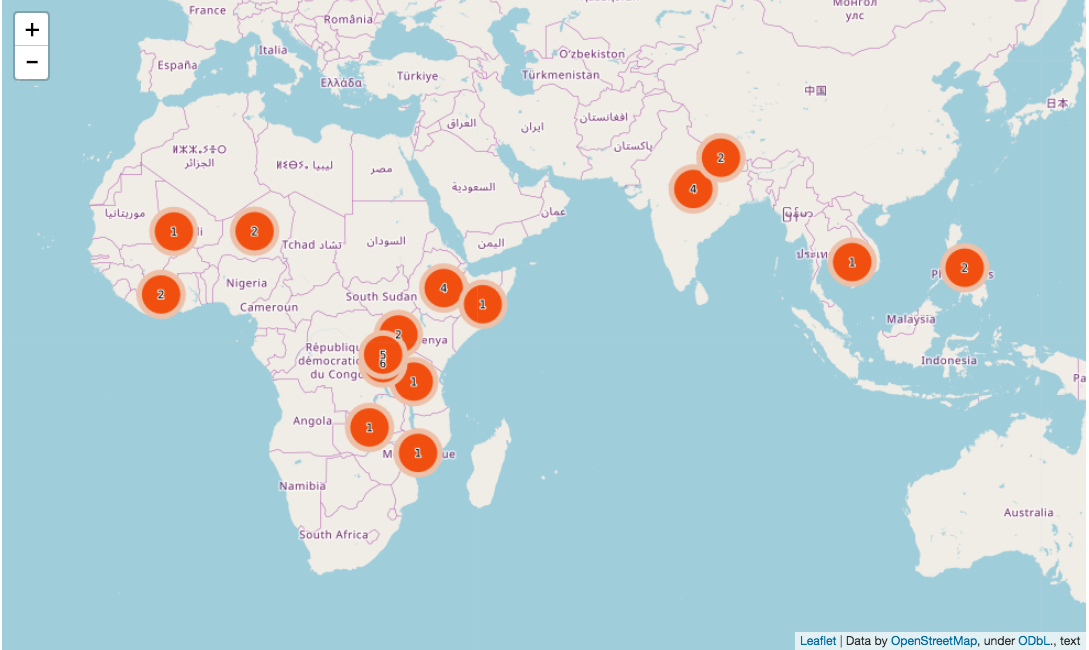
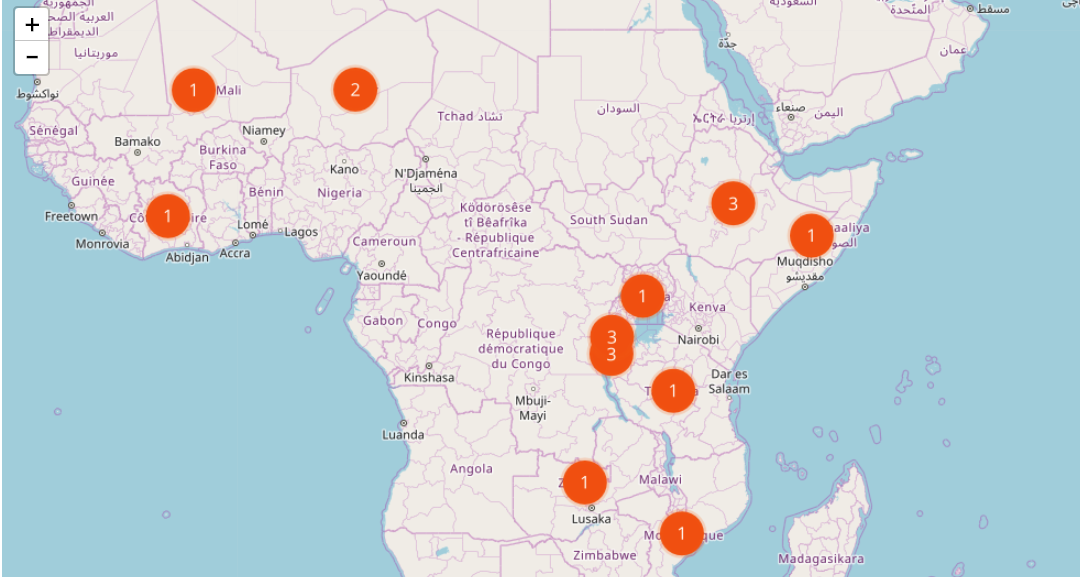
updated the software to automatically upload the carto table via carto api, and changed structure slightly to bools

diff --git a/carto_layer.py b/carto_layer.py
@@ -3,6 +3,11 @@ from iso3166 import countries
 from collections import Counter
 import iso3166
 import pandas as pd
+import requests
+import os
+
+
+output_file = 'output_stories.csv'
 
 
 def extract_entry(entry):
@@ -50,10 +55,26 @@ def sector_row_entries(sector_entry, all_sectors):
             if tag == sector:
                 #print(f'     found {tag} entry')
                 found = 1
-                tmp.append(1)
+                tmp.append(True)
         if found == 0:
-            tmp.append(0)
+            tmp.append(False)
     return tmp, col_names
+
+
+def upload_to_carto(APIKEY):
+    """Use the Carto API to upload a local csv file to the careusa account"""
+    url = "https://careusa.carto.com/api/v1/imports"
+    params = {'api_key': APIKEY,
+              'privacy':'public',
+              'collision_strategy':'overwrite'}
+    files = {'file': open(output_file,'rb')}
+    r = requests.post(url=url,files=files, params=params)
+
+    if r.status_code == 200:
+        print(f"Carto respose {r.status_code}: Table upload successful")
+        #print(r.url)
+    else:
+        print(f"Table upload failed - Carto response {r.status_code}")
 
 
 def main():
@@ -72,9 +93,12 @@ def main():
             ACCESS_TOKEN = item.split()[-1]
         if item.split()[0] == 'SPACE_ID':
             SPACE_ID = item.split()[-1]
+        if item.split()[0] == 'CARTO_API_KEY':
+            CARTO_API_KEY = item.split()[-1]
 
     assert ACCESS_TOKEN, 'failed to find ACCESS_TOKEN'
     assert SPACE_ID, 'failed to find SPACE_ID'
+    assert CARTO_API_KEY, 'failed to find CARTO_API_KEY'
 
     # Create your Contentful Delivery API Client
     client = contentful.Client(SPACE_ID, ACCESS_TOKEN)
@@ -117,9 +141,14 @@ def main():
     sector_names.append('year')
 
     export_df = pd.DataFrame(tmp_row, columns=sector_names)
-    export_df.to_csv('output_stories.csv')
-    print('Normal end of program reached.')
+    export_df.to_csv(output_file, index=False)
+    print('Created temporary file')
 
+    upload_to_carto(APIKEY=CARTO_API_KEY)
+
+    if os.path.exists(output_file):
+        print('Cleanup stage - removing temporary file.')
+        os.remove(output_file)
 
 if __name__ == '__main__':
     main()

diff --git a/README.md b/README.md
@@ -1,6 +1,6 @@
 # CARE data layer
 
-This software should run periodically in oder to generate a csv file for the production of a story layer.
+This software should run periodically in oder to generate a csv file for the production of a story layer, and automatically upload it to the careusa carto account.
 
 
 ## Requirements
@@ -23,9 +23,11 @@ You will also need a `.env` file with API credentials for Contentful in the same
 ```
 SPACE_ID=XXXXXX
 ACESS_TOKEN=XXXXXX
-
+CARTO_API_KEY =XXXXXXX
 ```
-These keys can be obtained from [Contentful](https://app.contentful.com/spaces/nlip0spjj3b7/api/keys/0x476IPThWIVAOF2zg7PoW).
+The SPACE_ID and ACESS_TOKEN keys can be obtained from [Contentful](https://app.contentful.com/spaces/nlip0spjj3b7/api/keys/0x476IPThWIVAOF2zg7PoW).
+The CARTO_API_KEY can be obtained from within the Carto account.
+These keys can also be obtained by contacting the Vizzuality development team.
 
 ## Running
 
@@ -35,39 +37,18 @@ If your Python is set up, and you have installed the requirements file, you can 
 python carto_layer.py
 ```
 
+A sucessful run will result in the following output, and the table being updated:
+```
+╰─$ python carto_layer.py
+Found  44 stories.
 
-## Syncing the output file to Dropbox
+Created temporary file
+Carto respose 200: Table upload successful
+Cleanup stage - removing temporary file.
+```
 
-After running, the script should produce an output file: `output_stores.csv` in your local directory. We will need to place this in a location in sync with the Care Carto account (`https://careusa.carto.com`).
 
-We have set up a dropbox account:
-
-  - username: `benjamin.laken@vizzuality.com`
-  - password: XXXX (shared on LastPass)
-
-The procedure is to run the python software, and take the `output_stories.csv` file and upload that to the dropbox account, overwriting/replacing the existing file.
-
-Once the file is overwritten, the shared link should be enough to access the file.
-
-![](pics/first_share.png)
-![](pics/link_copy.png)
-
-This link should stay as:
-'https://www.dropbox.com/s/5sei7sk8asob4qj/output_stories.csv?dl=0'
-
-note, to access the file directly from this link, you will need to view the following URL:
-
-`https://dl.dropboxusercontent.com/1/view/5sei7sk8asob4qj/output_stories.csv`
-
-It is the latter URL that should be connected to Carto. This should already be done.
-The file should be set to sync once every day (or whatever your preferred update rate is).
-The table should be `output_stories` in the `careusa` Carto account.
-
-![](pics/carto_connect.png)
-
-![](pics/carto_and_dropbox_link.png)
-
-### Generating a Carto Map layer
+### Generating a Carto Map layer from this table
 
 You can generate a Carto map layer from these data as follows:
 
@@ -79,10 +60,10 @@ import requests
 import json
 
 
-possible_variables_to_select = ['climate_change',
+possible_tags_to_select = ['climate_change',
                                  'economic_development',
                                  'education',
-                                 'emergency_&_disaster_aid',
+                                 'emergency__disaster_aid',
                                  'food_security',
                                  'grand_prize',
                                  'health',
@@ -90,40 +71,43 @@ possible_variables_to_select = ['climate_change',
                                  'total']
 
 
+
+year = 2016
 var_to_view = 'total'  # <-- E.g. of selecting a variable for the layer
+tag = 'education'
 
 query=(f"WITH data AS "
-       f"(SELECT * FROM output_stories) "
+       f"(SELECT iso, COUNT(year) as value FROM output_stories "
+       f"WHERE year = {year} "
+      # f"AND {tag} = true "
+       f"GROUP BY iso) "
        f"SELECT map.iso, map.cartodb_id, ST_CENTROID(map.the_geom_webmercator) AS the_geom_webmercator, "
-       f"data.{var_to_view} as value, data.name "
+       f"data.value as value "
        f"from world_complete_1 AS map "
        f"INNER JOIN data "
        f"ON data.iso = map.iso")
 print(query)
 
 style = ("#test_stories{"
-          "marker-fill-opacity: 1.0;"
-          "marker-line-color: #EFC8B2;"
-          "marker-line-width: 5;"
-          "marker-line-opacity: 1.0;"
-          "marker-placement: point;"
-          "marker-type: ellipse;"
-          "marker-width: 40;"
-          "marker-fill: #F25A0D;"
-          "marker-allow-overlap: true; }"
-
-        "#test_stories::labels {"
-         " text-name: [value];"
-        "  text-face-name: 'DejaVu Sans Book';"
-        "  text-size: 10;"
-        "  text-label-position-tolerance: 10;"
-        "  text-fill: #000;"
-        "  text-halo-fill: #FFF;"
-        "  text-halo-radius: 1;"
-        "  text-dy: 0;"
-        "  text-allow-overlap: true;"
-        "  text-placement: point;"
-        "  text-placement-type: simple;}"
+           "marker-fill-opacity: 1.0;"
+           "marker-line-color: #f46508;"
+           "marker-line-width: 5;"
+           "marker-line-opacity: 0.2;"
+           "marker-placement: point;"
+           "marker-type: ellipse;"
+           "marker-width: 40;"
+           "marker-fill: #F25A0D;"
+           "marker-allow-overlap: true;}"
+        " #test_stories::labels {"
+           "text-name: [value];"
+           "text-face-name: 'Open Sans Regular';"
+           "text-size: 16;"
+           "text-label-position-tolerance: 10;"
+           "text-fill: #FFFFFF;"
+           "text-dy: 0;"
+           "text-allow-overlap: true;"
+           "text-placement: point;"
+           "text-placement-type: simple;}"
         )
 account = 'careusa'
 urlCarto = 'https://'+account+'.carto.com/api/v1/map'
